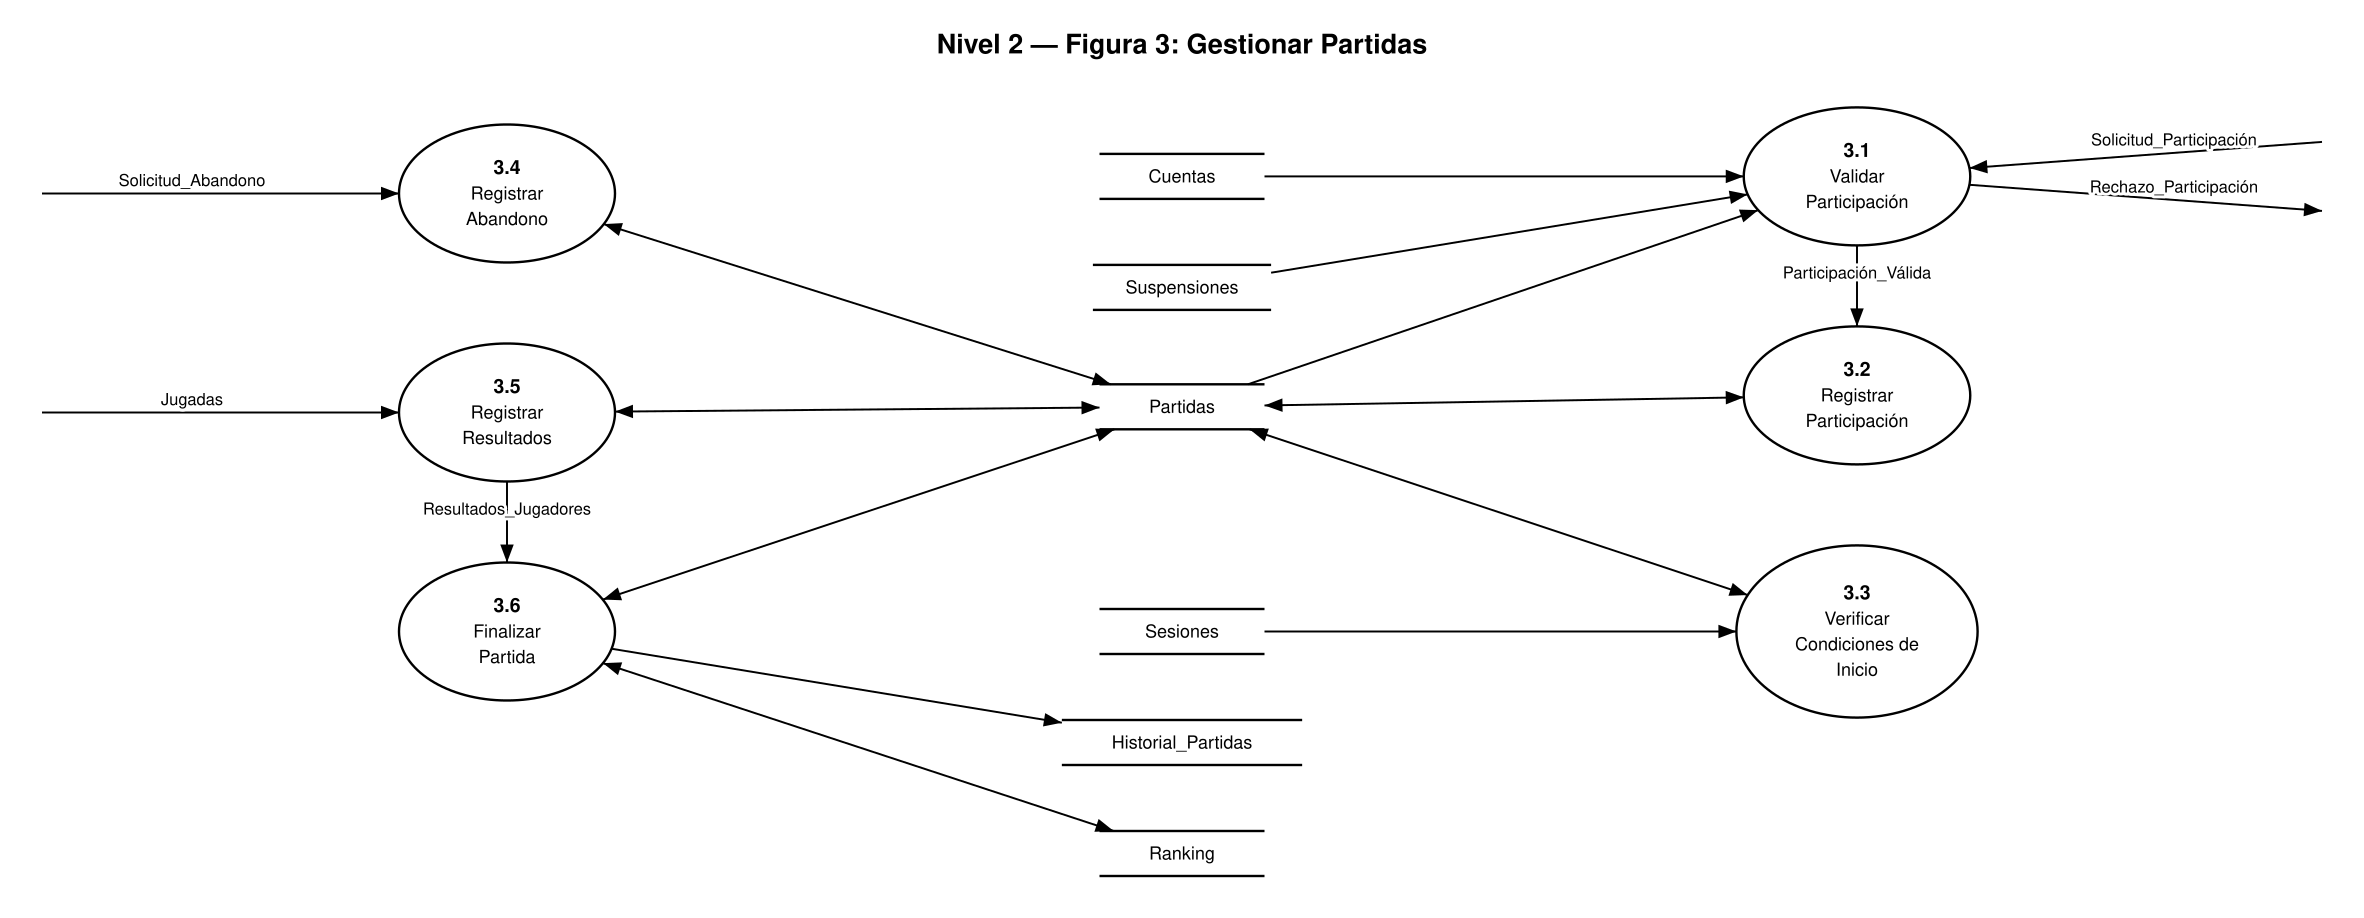
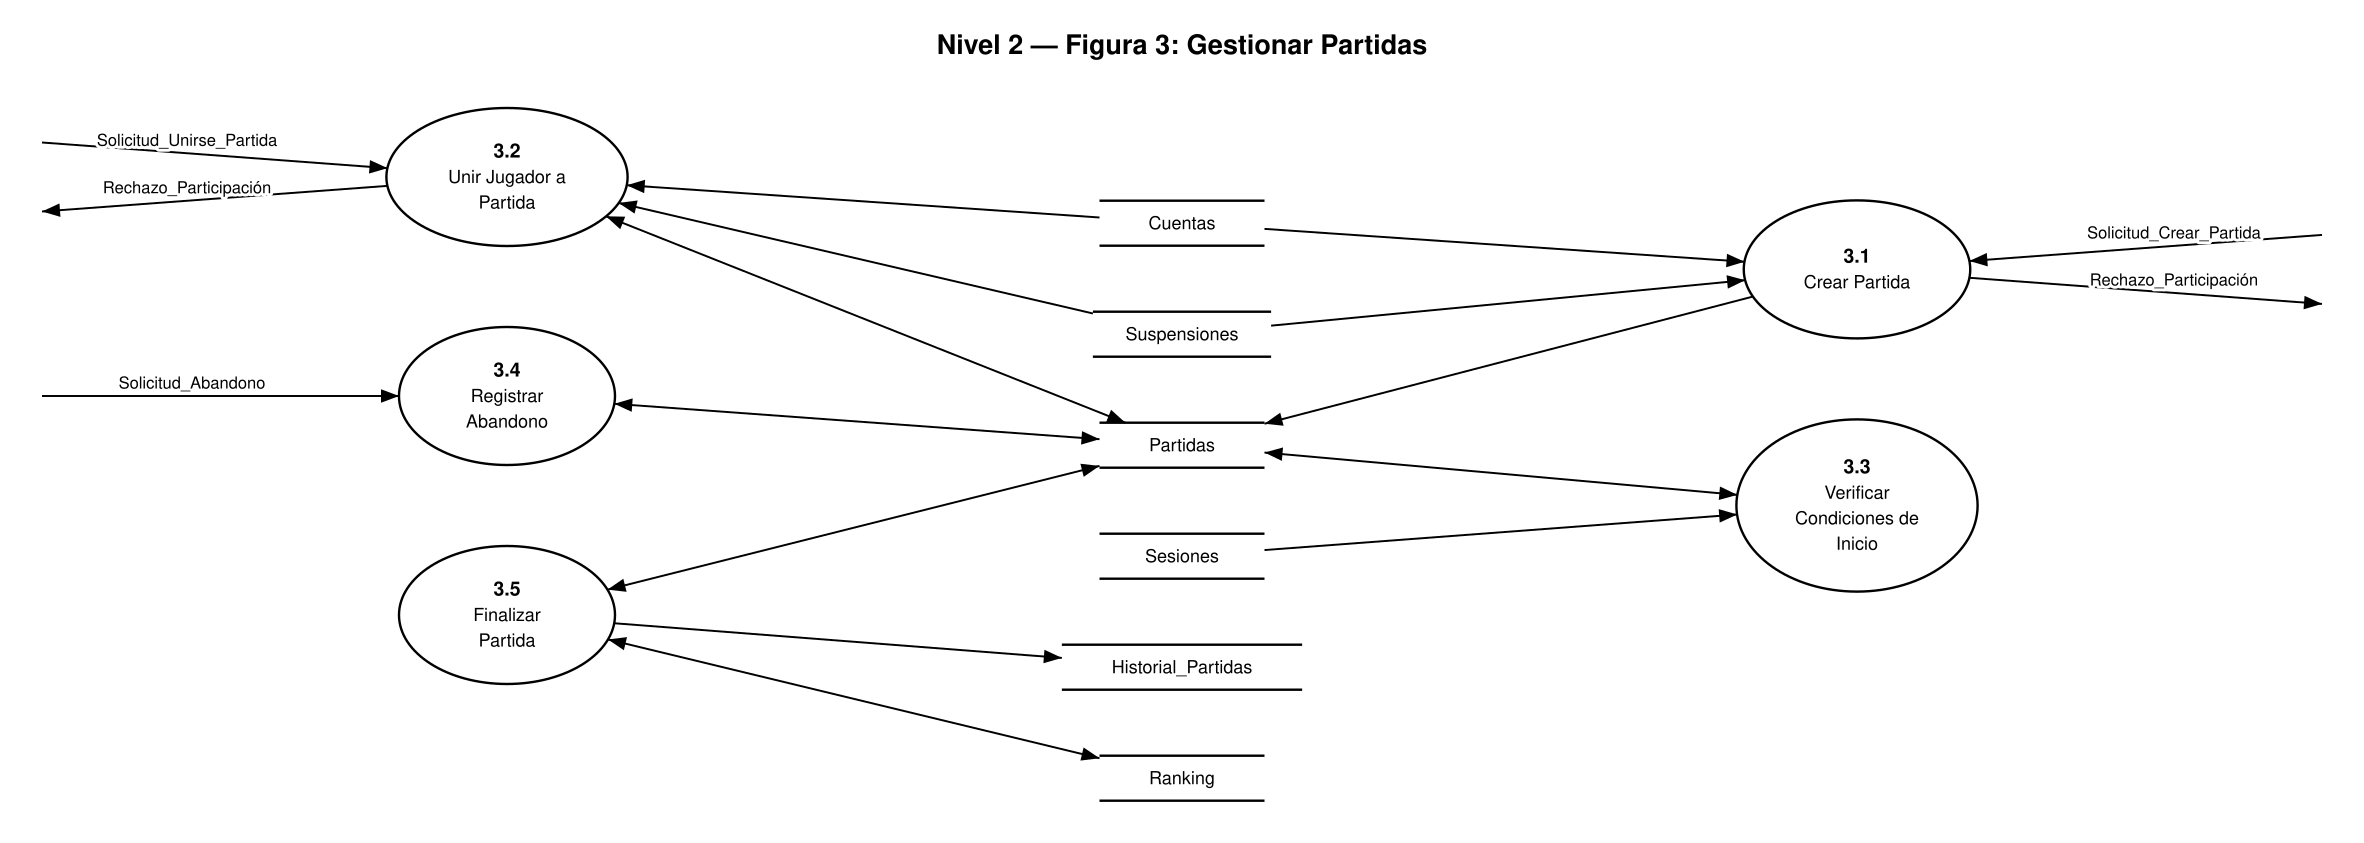
docs: split participation into create/join and drop Jugadas in exercise 1 DFD
Level 2 of Gestionar Partidas now has 5 subprocesses; results are
registered when the match is finalized.

diff --git a/README.md b/README.md
@@ -102,7 +102,7 @@ Se solicita modelar el sistema considerando las distintas entidades involucradas
 | Entidad | Rol frente al sistema | Qué envía / qué recibe |
 | --- | --- | --- |
 | **Usuario No Registrado** | Persona que todavía no tiene cuenta: solicita el alta y debe pagarla para que la cuenta se dé de alta. Al completarse el alta pasa a ser Jugador. | Envía la solicitud de alta y el pago del alta. Recibe la confirmación del alta (o el rechazo por pago no aprobado). |
-| **Jugador** | Persona con cuenta: inicia sesión, configura su perfil, paga créditos y juega partidas. | Envía datos de acceso, pedidos de pago de créditos, de participación y de abandono, jugadas y consultas. Recibe confirmaciones, rechazos, listado de partidas y ranking. |
+| **Jugador** | Persona con cuenta: inicia sesión, configura su perfil, paga créditos y juega partidas. | Envía datos de acceso, pedidos de pago de créditos, de creación de partida, de unión a una partida y de abandono, y consultas. Recibe confirmaciones, rechazos, listado de partidas y ranking. |
 | **Administrador** | Gestiona cuentas, suspende cuentas que incumplen las reglas y consulta partidas y ranking. | Envía gestión de cuentas, órdenes de suspensión y consultas. Recibe datos de cuentas, listado de partidas y ranking. |
 | **Medio de Pago** | Organización externa por la que se abona el alta de la cuenta y los créditos (cualquier medio de pago). | Recibe la solicitud de cobro y devuelve su aprobación o rechazo. |
 
@@ -114,7 +114,7 @@ No son entidades (están dentro del sistema): **Partida**, **Historial** y **Ran
 | --- | --- | --- |
 | 1 | **Administrar Cuentas** | Alta de cuenta del Usuario No Registrado (una vez acreditado el pago del alta) e inicio de sesión del Jugador; gestión de cuentas (perfil, consulta y modificación) por el Jugador y el Administrador. |
 | 2 | **Gestionar Pagos** | Cobro del alta de cuenta al Usuario No Registrado y pago de créditos del Jugador, con cualquier medio de pago; acreditación del saldo en la cuenta. |
-| 3 | **Gestionar Partidas** | Creación y unión a partidas, verificación de condiciones, registro de resultados y abandonos, cierre de la partida y actualización de historial y ranking. |
+| 3 | **Gestionar Partidas** | Creación de partidas y unión a partidas creadas por otros jugadores, verificación de condiciones de inicio, registro de abandonos, cierre de la partida, registro de resultados y actualización de historial y ranking. |
 | 4 | **Suspender Cuentas** | Suspensión temporal de cuentas que incumplen las reglas de la plataforma. |
 | 5 | **Consultar Historial y Ranking** | Consulta de las partidas realizadas y del ranking general. |
 
@@ -138,10 +138,10 @@ Una sola burbuja numerada con **0** que representa todo el sistema, todas las en
 | `Resultado_Cobro` | Medio de Pago | Sistema (0) | Aprobación o rechazo del cobro informado por el medio de pago. |
 | `Solicitud_Cobro` | Sistema (0) | Medio de Pago | Datos del pago (alta de cuenta o créditos) enviados al medio de pago elegido. |
 | `Confirmación_Pago_Créditos` | Sistema (0) | Jugador | Confirma el pago y el nuevo saldo de créditos (o informa el rechazo). |
-| `Solicitud_Participación` | Jugador | Sistema (0) | Pedido de crear una partida o de unirse a una partida creada por otro jugador. |
+| `Solicitud_Crear_Partida` | Jugador | Sistema (0) | Pedido del jugador de crear una partida nueva. |
+| `Solicitud_Unirse_Partida` | Jugador | Sistema (0) | Pedido del jugador de unirse a una partida creada por otro jugador. |
 | `Solicitud_Abandono` | Jugador | Sistema (0) | Decisión del jugador de abandonar la partida (antes de que comience o durante el juego). |
-| `Jugadas` | Jugador | Sistema (0) | Acciones del jugador durante la partida. |
-| `Rechazo_Participación` | Sistema (0) | Jugador | Motivo por el que no se puede participar (sin lugares, cuenta suspendida o créditos insuficientes). |
+| `Rechazo_Participación` | Sistema (0) | Jugador | Motivo por el que no se puede crear la partida o unirse a ella (sin lugares, cuenta suspendida o créditos insuficientes). |
 | `Orden_Suspensión` | Administrador | Sistema (0) | Cuenta a suspender, motivo y período de suspensión. |
 | `Consulta_Partidas` | Jugador, Administrador | Sistema (0) | Pedido de consulta de las partidas realizadas. |
 | `Consulta_Ranking` | Jugador, Administrador | Sistema (0) | Pedido de consulta del ranking general. |
@@ -170,45 +170,39 @@ Flujo entre procesos de esta figura:
 
 ##### Nivel 2 — Figura 3: Gestionar Partidas
 
-Se detalla el proceso **3 Gestionar Partidas** por ser el que concentra las reglas del enunciado (lugares, suspensión, créditos, conexión, mínimo de participantes, abandono, resultados, historial y ranking). Se descompone en 6 subprocesos.
+Se detalla el proceso **3 Gestionar Partidas** por ser el que concentra las reglas del enunciado (lugares, suspensión, créditos, conexión, mínimo de participantes, abandono, resultados, historial y ranking). Se descompone en 5 subprocesos; participar se divide en **crear** una partida y **unirse** a una creada por otro jugador, que tienen reglas distintas.
 
 ![Nivel 2 — Figura 3: Gestionar Partidas](diagramas/c1-nivel2-proceso3.png)
 
 | N° | Proceso | Qué hace |
 | --- | --- | --- |
-| 3.1 | **Validar Participación** | Verifica lugares disponibles, que la cuenta no esté suspendida y que tenga créditos suficientes. |
-| 3.2 | **Registrar Participación** | Crea la partida o suma al jugador a una partida existente. |
+| 3.1 | **Crear Partida** | Verifica que la cuenta no esté suspendida y que tenga créditos suficientes, y crea la partida. |
+| 3.2 | **Unir Jugador a Partida** | Verifica que haya lugares disponibles, que la cuenta no esté suspendida y que tenga créditos suficientes, y suma al jugador a una partida creada por otro jugador. |
 | 3.3 | **Verificar Condiciones de Inicio** | Verifica que los jugadores estén conectados y que se alcance el mínimo de participantes; habilita el comienzo de la partida. |
 | 3.4 | **Registrar Abandono** | Registra el abandono (antes del comienzo o durante el juego) y actualiza el resultado del jugador. |
-| 3.5 | **Registrar Resultados** | Registra los resultados obtenidos por cada jugador durante el juego. |
-| 3.6 | **Finalizar Partida** | Cierra la partida y actualiza el historial y el ranking. |
+| 3.5 | **Finalizar Partida** | Registra los resultados obtenidos por cada jugador, cierra la partida y actualiza el historial y el ranking. |
 
-Flujos entre procesos de esta figura:
-
-| Flujo | De | A | Descripción |
-| --- | --- | --- | --- |
-| `Participación_Válida` | 3.1 | 3.2 | Pedido de participación que cumplió todas las condiciones. |
-| `Resultados_Jugadores` | 3.5 | 3.6 | Resultados finales obtenidos por cada jugador de la partida. |
+Esta figura no tiene flujos entre procesos: se comunican a través del almacén `Partidas`.
 
 **Balanceo nivel 1 ↔ nivel 2.** Los flujos que entran y salen del proceso 3 son exactamente los que entran y salen de la figura 3:
 
 | Flujo | Sentido | Nivel 1 | Nivel 2 |
 | --- | --- | --- | --- |
-| `Solicitud_Participación` | Entrada | proceso 3 | 3.1 |
-| `Rechazo_Participación` | Salida | proceso 3 | 3.1 |
+| `Solicitud_Crear_Partida` | Entrada | proceso 3 | 3.1 |
+| `Solicitud_Unirse_Partida` | Entrada | proceso 3 | 3.2 |
+| `Rechazo_Participación` | Salida | proceso 3 | 3.1, 3.2 |
 | `Solicitud_Abandono` | Entrada | proceso 3 | 3.4 |
-| `Jugadas` | Entrada | proceso 3 | 3.5 |
 
 Los almacenamientos del proceso 3 se repiten en la figura 3 con el mismo tipo de acceso y aparece además el almacén local `Partidas`, que no se muestra en el nivel 1 porque lo usan solo los subprocesos de esta figura:
 
 | Almacén | Nivel 1 (proceso 3) | Nivel 2 |
 | --- | --- | --- |
-| `Cuentas` | Lectura | Lectura (3.1) |
-| `Suspensiones` | Lectura | Lectura (3.1) |
+| `Cuentas` | Lectura | Lectura (3.1, 3.2) |
+| `Suspensiones` | Lectura | Lectura (3.1, 3.2) |
 | `Sesiones` | Lectura | Lectura (3.3) |
-| `Historial_Partidas` | Escritura | Escritura (3.6) |
-| `Ranking` | Lectura/Escritura | Lectura/Escritura (3.6) |
-| `Partidas` | — (almacén local) | Lectura/Escritura (3.1, 3.2, 3.3, 3.4, 3.5, 3.6) |
+| `Historial_Partidas` | Escritura | Escritura (3.5) |
+| `Ranking` | Lectura/Escritura | Lectura/Escritura (3.5) |
+| `Partidas` | — (almacén local) | Lectura/Escritura (3.1, 3.2, 3.3, 3.4, 3.5) |
 
 #### d. Diccionario de datos
 
@@ -257,7 +251,7 @@ Datos elementales (longitud y formato son propuestas de diseño: el enunciado so
 - **Medio de Pago** se incorpora como entidad externa porque el enunciado indica que el pago se realiza "a través de distintos medios de pago": hay alguien fuera del sistema que cobra y confirma.
 - Solo **Avatar** está marcado como optativo; por eso **Redes Sociales** se modela como obligatoria (al menos una de las opciones).
 - "Estar conectado" se representa con el almacén `Sesiones`, que se escribe al iniciar sesión y se lee al verificar las condiciones de inicio de la partida.
-- Esperar a que comience la partida no genera ningún flujo: solo el abandono es un dato nuevo.
+- Esperar a que comience la partida no genera ningún flujo: solo el abandono es un dato nuevo. Las acciones del jugador durante el juego no se modelan: el enunciado solo pide registrar los resultados.
 - El enunciado exige que el jugador "cuente con los créditos necesarios"; solo se verifica el saldo, no se modela un descuento porque no se indica.
 - Los tipos de documento `DNI | Pasaporte` son los del ejemplo de la cátedra.
 - Para no sobrecargar el contexto se omiten flujos que no agregan información propia: el resultado del inicio de sesión (la sesión queda registrada en `Sesiones`), el acceso del Administrador y el aviso de inicio de partida y la notificación del resultado de la partida (el enunciado solo habla de sesión del Jugador y de que la partida "podrá comenzar") y la confirmación de la suspensión.
